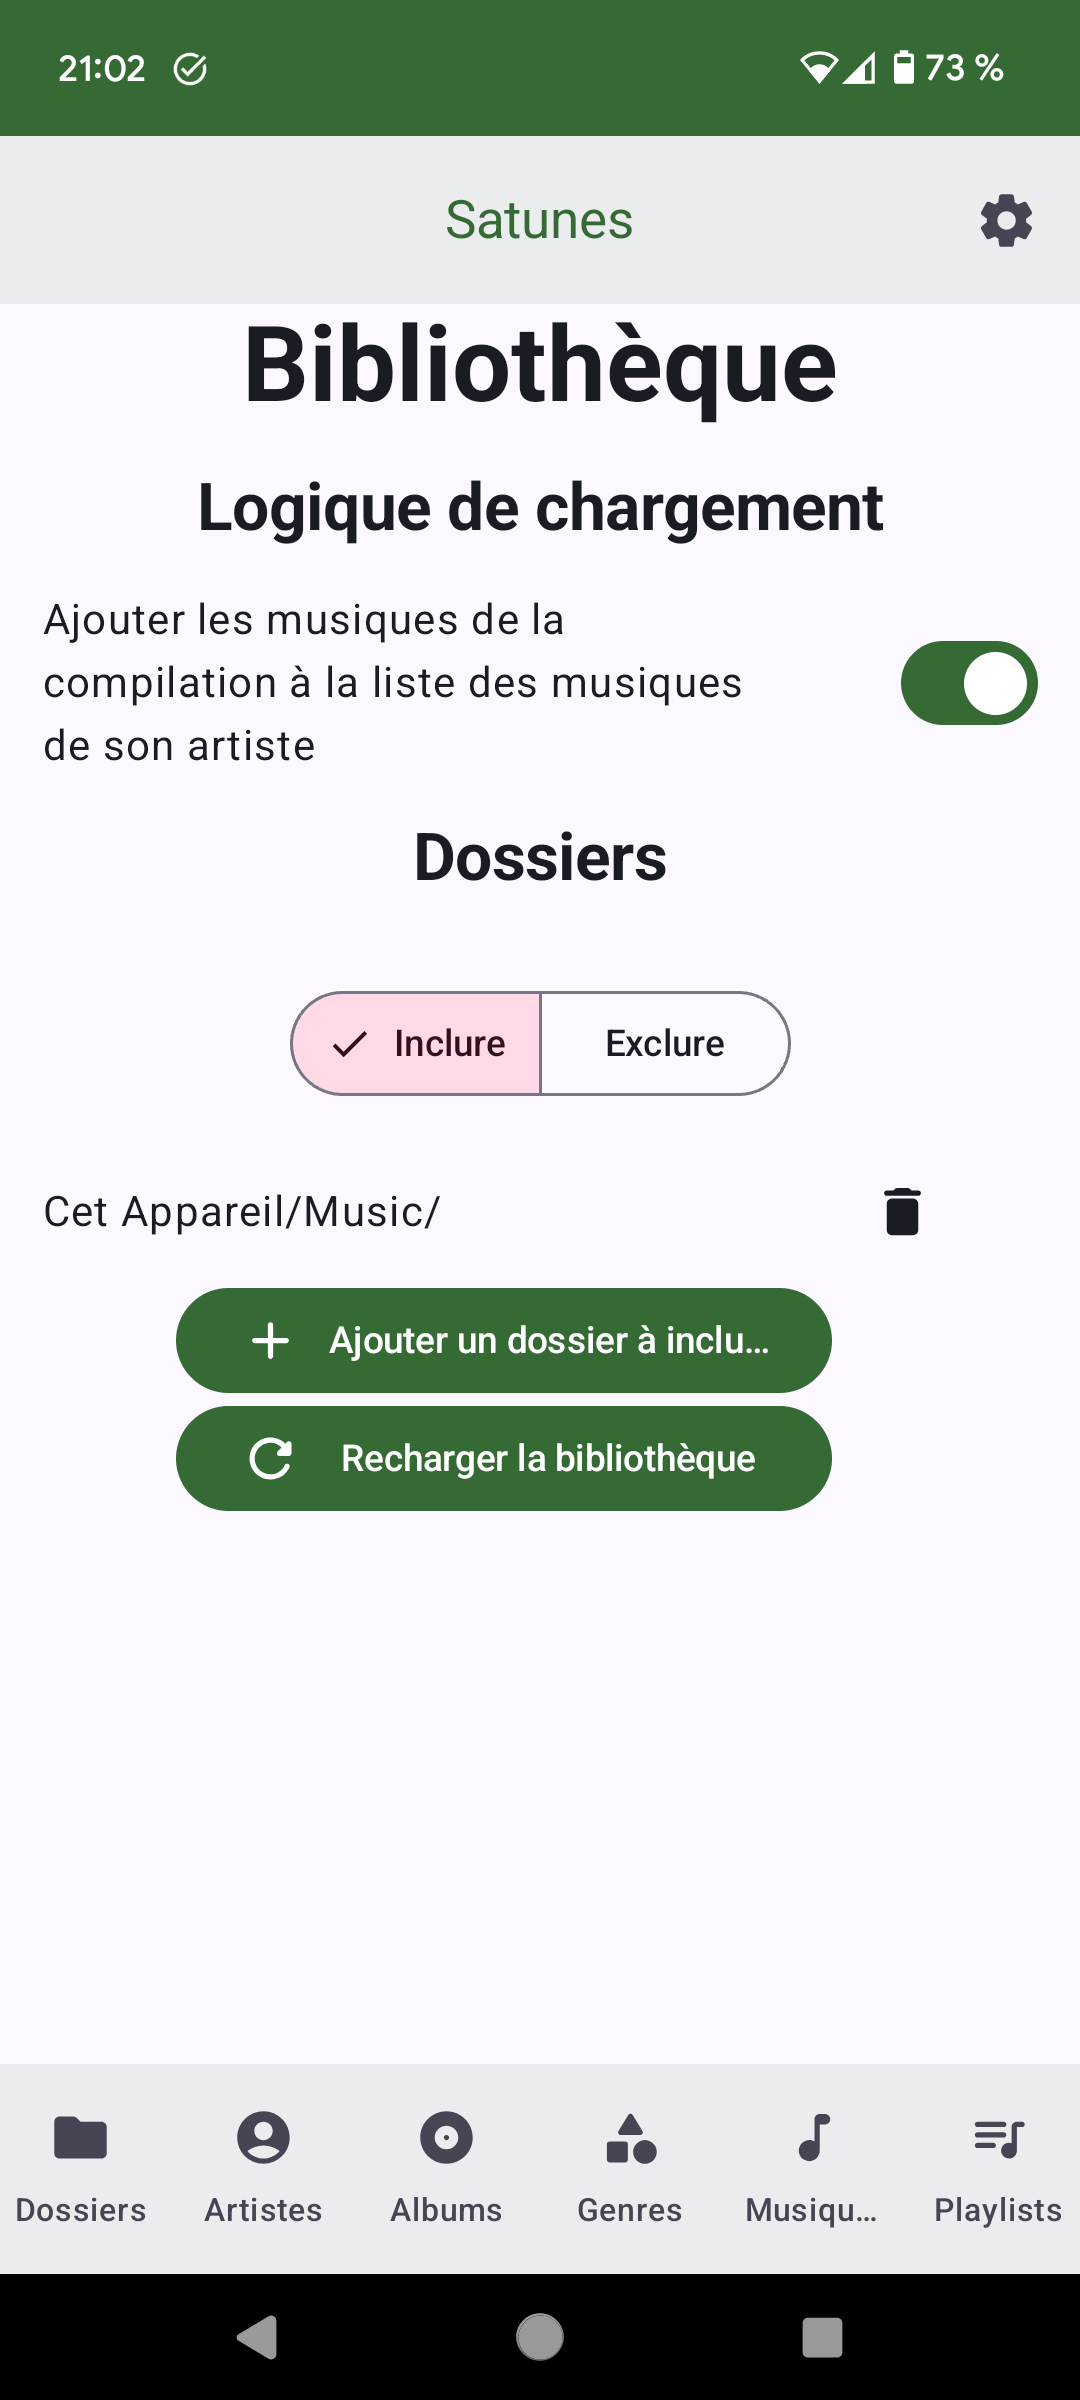
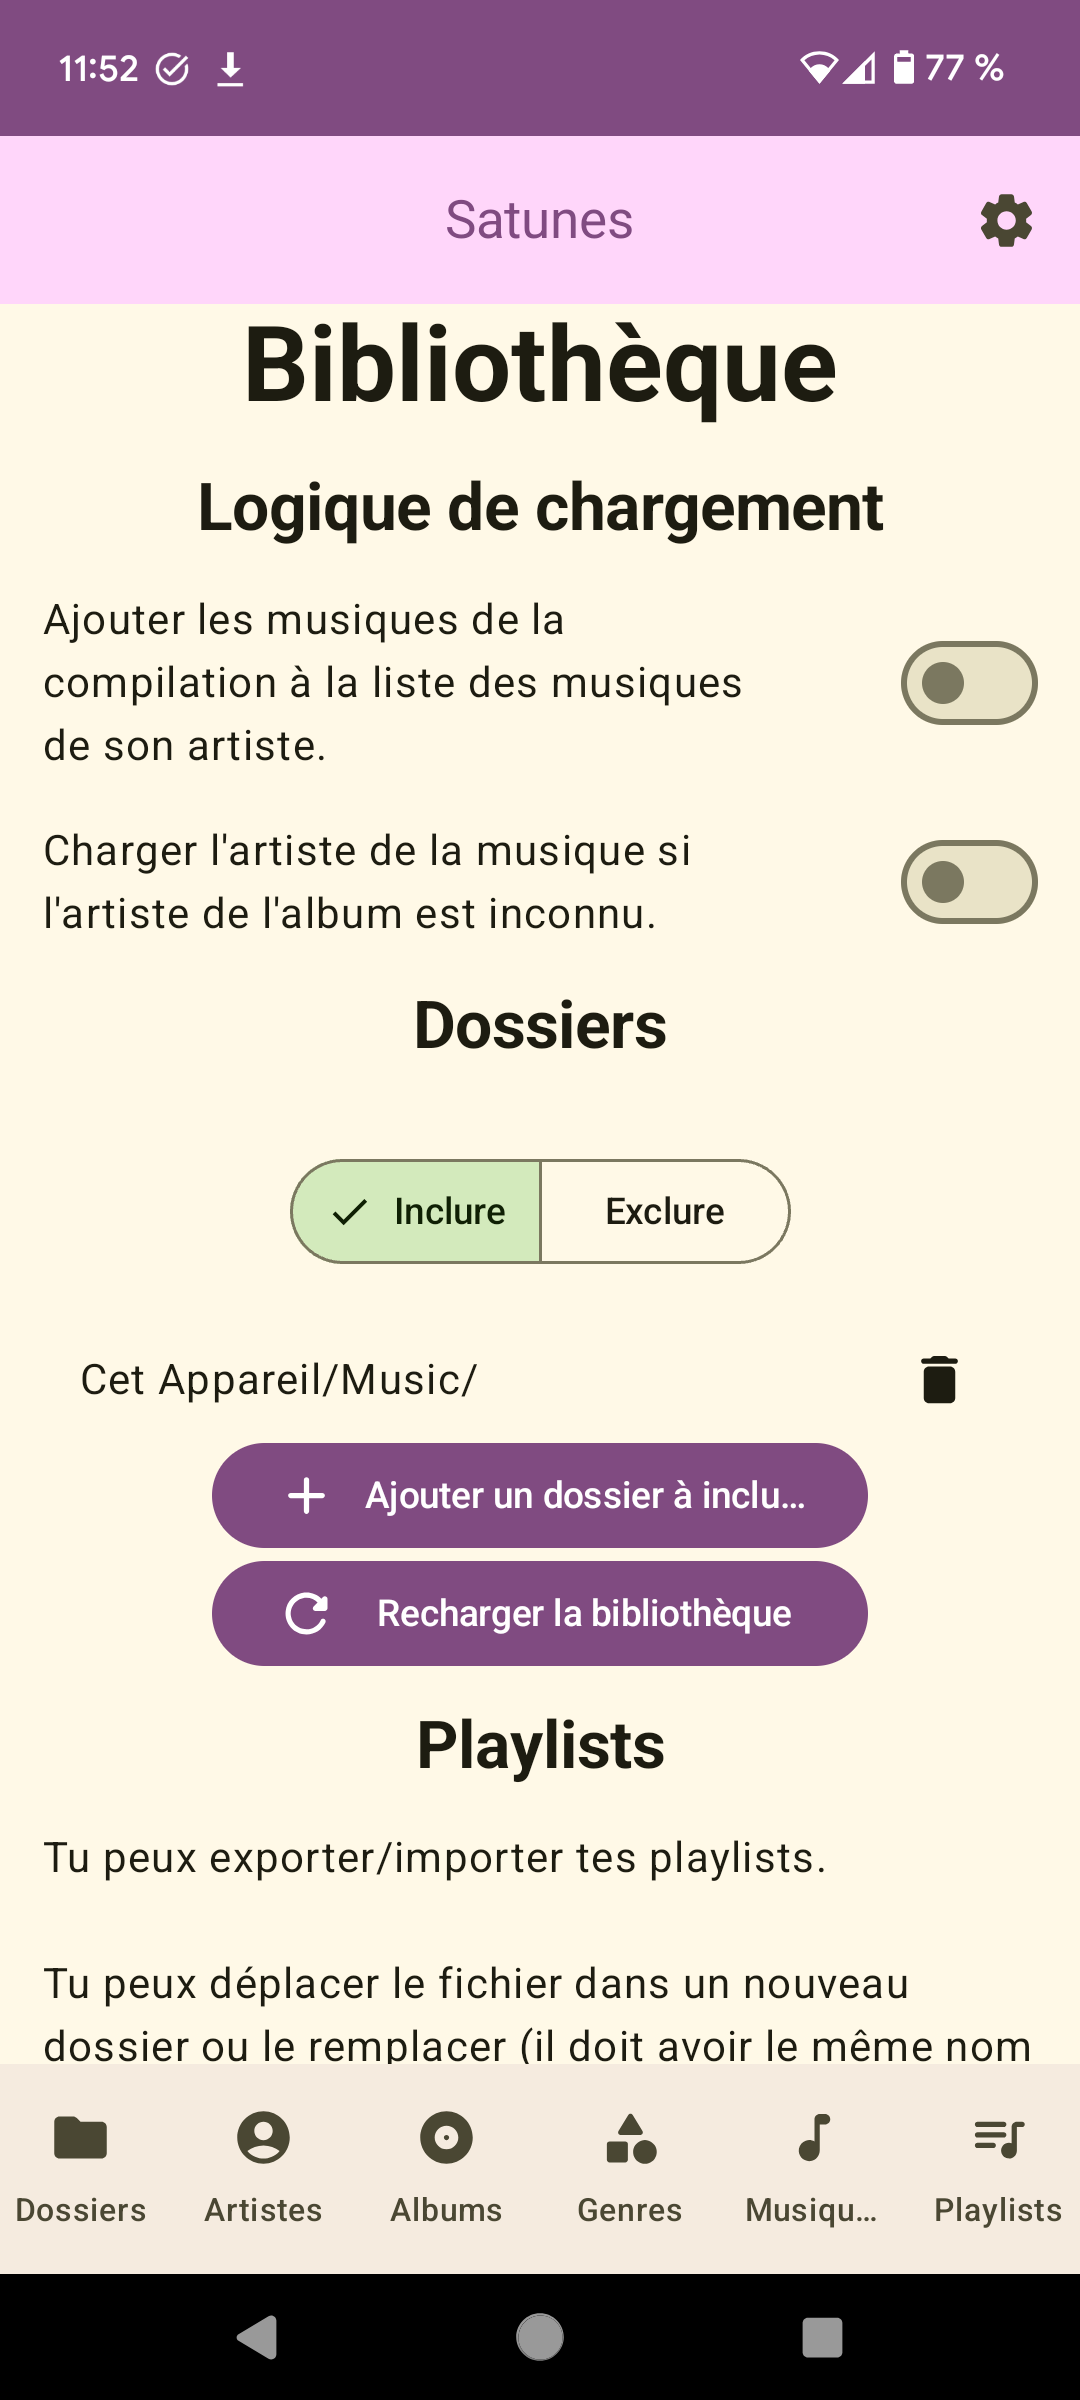
Prepare: v2.3.0

diff --git a/RELEASES_FR.md b/RELEASES_FR.md
@@ -1,6 +1,33 @@
 # Versions (🇫🇷)
 You can find this file in [english 🇬🇧](RELEASES_EN.md)
 
+## 2.3 (Android 5.1.1 Lollipop et ultérieur)
+
+### 2.3.0
+
+Nouvelles fonctionnalités:
+
+* Possibilité d'activer les modes aléatoire et répétition avec la notification
+* Partager des fichiers multimédias
+* Un clic long sur la pochette de l'album ouvre les options de l'album
+* Un clic long sur le texte de l'artiste dans la vue de lecture ouvre les options de l'artiste
+* Possibilité de charger l'artiste de la musique si l'artiste de l'album est inconnu (paramètres de
+  la bibliothèque)
+* Nettoyer les playlists pour supprimer la musique enregistrée si elle n'existe plus dans les
+  musiques chargées au lieu de le faire automatiquement
+
+Améliorations, optimisations et dépannage:
+
+* Correction de l'importation d'une seule liste de lecture
+* Correction de l'importation d'une liste de lecture lorsqu'elle existe déjà
+* Quelques optimisations
+* Ajout du bouton Fdroid dans la section des paramètres
+* Les paramètres de la liste de lecture ont été déplacés vers les paramètres de la bibliothèque
+* Correction de la lecture suivante dans certaines conditions
+* Correction de la suppression de musiques de la file d'attente dans certaines conditions
+* Correction du crash lors du lancement sur Android 9 et versions antérieures si l'autorisation de
+  lecture du stockage externe n'est pas autorisée
+
 ## 2.2 (Android 5.1.1 Lollipop et ultérieur)
 
 ### 2.2.4

diff --git a/RELEASES_EN.md b/RELEASES_EN.md
@@ -1,6 +1,32 @@
 # Releases (🇬🇧)
 Tu peux retrouver ce fichier en [français 🇫🇷](RELEASES_FR.md)
 
+## 2.3 (Android 5.1.1 Lollipop and later)
+
+### 2.3.0
+
+New features:
+
+* Be able to shuffle and change repeat mode with notification
+* Share medias files
+* Long click on album artwork opens the album's options
+* Long click on artist text in playback view opens the artist's options
+* Be able to load music's artist if the album's artist is unknown (library settings)
+* Clean playlists to removed saved music if they don't exists in loaded musics instead of cleaning
+  automatically
+
+Improvements, optimizations and troubleshooting:
+
+* Fix importing single playlist
+* Fix importing playlist when it already exists
+* Some optimizations
+* Add Fdroid button in about setting's section
+* Playlist settings have been moved to Library settings
+* Fix play next in certain conditions
+* Fix remove from queue in certain conditions
+* Fix crash while launching on Android 9 and earlier if read external storage permission is not
+  allowed
+
 ## 2.2 (Android 5.1.1 Lollipop and later)
 
 ### 2.2.4
